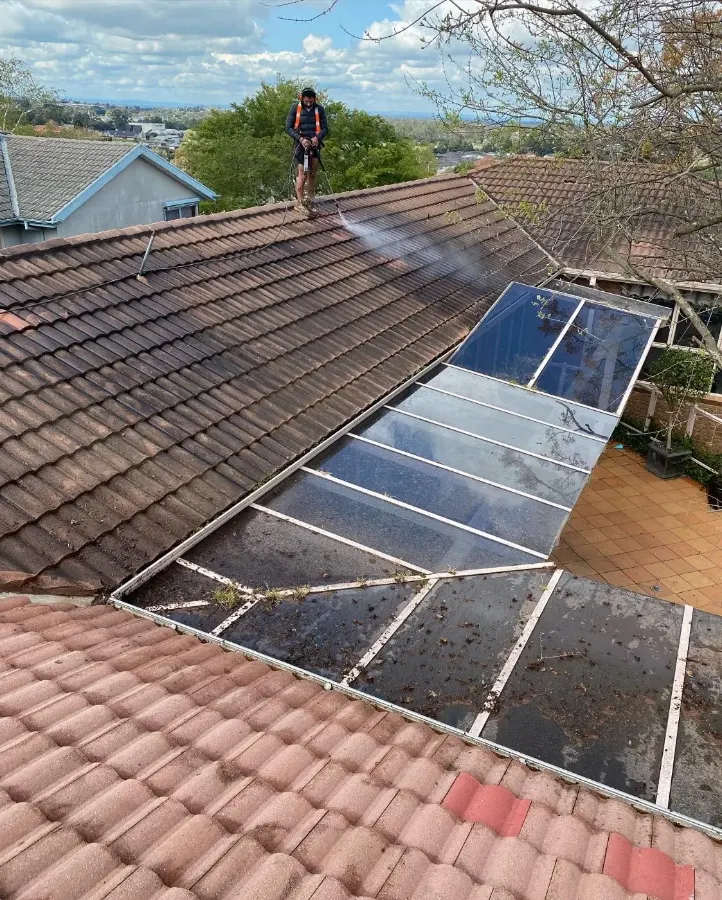
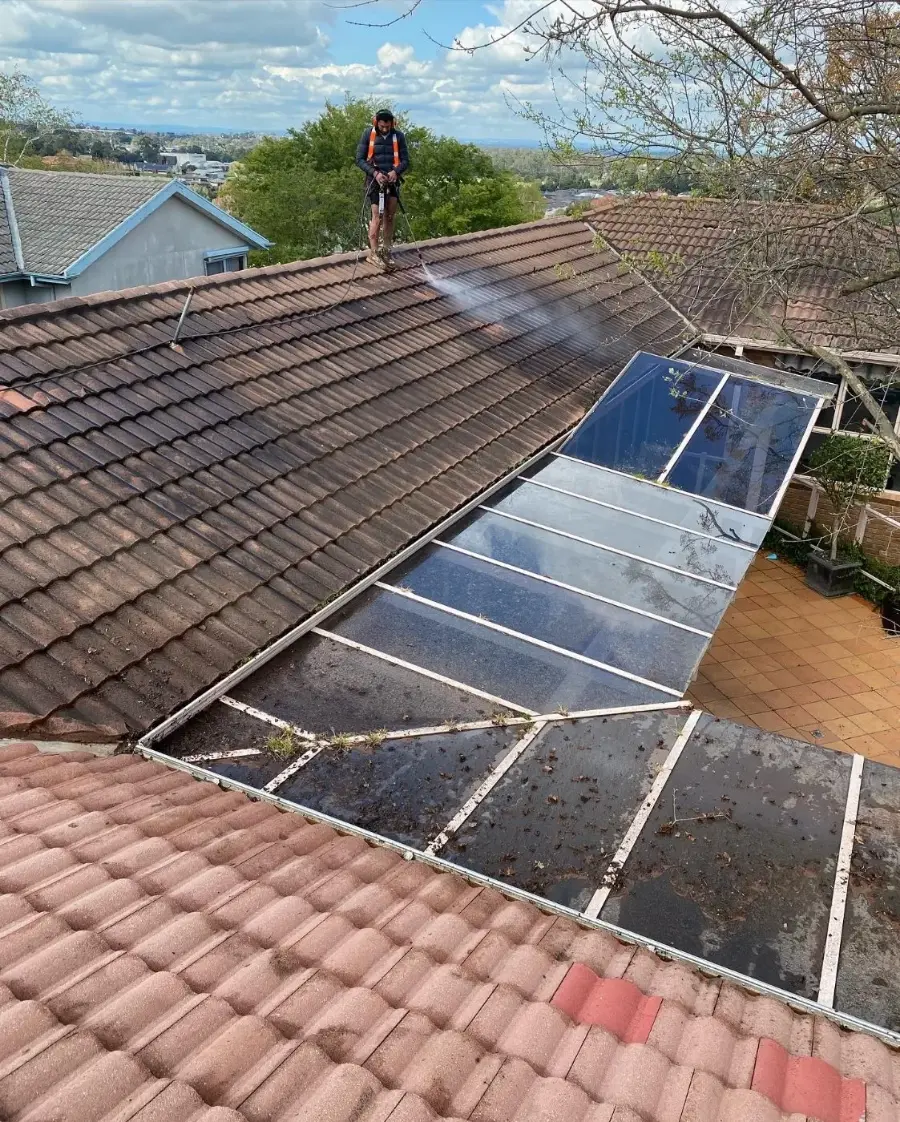
Bring six gallery images under the 250KB baseline by resizing
Yesterday's audit found these and left them, because clearing the budget on
quality alone drove three to q=0.54-0.60 and still left two over. Doing it by
width instead, with quality held at 0.80: 2090KB -> 1332KB, 36% off.

The largest CSS slot on these pages is 1152px, so 1200w is still >=1x and the
576px slots have plenty of headroom. Aspect ratios are preserved to within
0.0007 so there is no CLS change, and the width/height/srcSet descriptors in
each .tsx were updated to match the new intrinsic sizes.

gallery-roof-cleaning is the exception at q0.74 — it would not clear the budget
on width alone, and 1000w/q0.74 beats 1100w/q0.69 on a photo made of dense tile
texture. Opened and checked it at full size afterwards.

Two defects caught in review before pushing: the epoxy image landing at 900 wide
collided with its own -900 twin and left a srcSet with two 900w entries; and
deleting that twin as redundant would have broken the Vite build, because
Services.tsx and Gallery.tsx import it directly. Both fixed, both now covered by
sweeps.

Claude-Session: https://claude.ai/code/session_011QKFcVxWwYahKsiYaZbnjb

diff --git a/client/src/pages/BodyCorporatePainting.tsx b/client/src/pages/BodyCorporatePainting.tsx
@@ -118,10 +118,10 @@ export default function BodyCorporatePainting() {
         <div className="container">
           <img
             src="/gallery/gallery-commercial-heritage-white.webp"
-            srcSet="/gallery/gallery-commercial-heritage-white-900.webp 900w, /gallery/gallery-commercial-heritage-white.webp 1400w"
+            srcSet="/gallery/gallery-commercial-heritage-white-900.webp 900w, /gallery/gallery-commercial-heritage-white.webp 1200w"
             sizes="(max-width: 1024px) 100vw, 1152px"
-            width={1400}
-            height={1050}
+            width={1200}
+            height={900}
             alt="Heritage multi-storey building repainted white by Jetblack Painting for a Melbourne owners corporation"
             className="rounded-lg shadow-md w-full max-h-[520px] object-cover"
             loading="lazy"
@@ -129,10 +129,10 @@ export default function BodyCorporatePainting() {
           <div className="grid grid-cols-1 sm:grid-cols-3 gap-4 mt-4">
             <img
               src="/gallery/gallery-commercial-before-after.webp"
-              srcSet="/gallery/gallery-commercial-before-after-900.webp 900w, /gallery/gallery-commercial-before-after.webp 1400w"
+              srcSet="/gallery/gallery-commercial-before-after-900.webp 900w, /gallery/gallery-commercial-before-after.webp 1200w"
               sizes="(max-width: 1024px) 100vw, 1152px"
-              width={1400}
-              height={1400}
+              width={1200}
+              height={1200}
               alt="Before and after of a strata building façade repaint by Jetblack Painting"
               className="rounded-lg shadow-md w-full h-64 object-cover"
               loading="lazy"

diff --git a/public/services/body-corporate-painting/index.html b/public/services/body-corporate-painting/index.html
@@ -208,11 +208,11 @@
   <section>
     <h2>Body Corporate Painting work</h2>
     <figure>
-      <img src="/gallery/gallery-commercial-heritage-white.webp" srcset="/gallery/gallery-commercial-heritage-white-900.webp 900w, /gallery/gallery-commercial-heritage-white.webp 1400w" sizes="(max-width: 768px) 100vw, 50vw" width="1400" height="1050" alt="Heritage multi-storey building repainted white by Jetblack Painting for a Melbourne owners corporation" loading="lazy" decoding="async">
+      <img src="/gallery/gallery-commercial-heritage-white.webp" srcset="/gallery/gallery-commercial-heritage-white-900.webp 900w, /gallery/gallery-commercial-heritage-white.webp 1200w" sizes="(max-width: 768px) 100vw, 50vw" width="1200" height="900" alt="Heritage multi-storey building repainted white by Jetblack Painting for a Melbourne owners corporation" loading="lazy" decoding="async">
 
     </figure>
     <figure>
-      <img src="/gallery/gallery-commercial-before-after.webp" srcset="/gallery/gallery-commercial-before-after-900.webp 900w, /gallery/gallery-commercial-before-after.webp 1400w" sizes="(max-width: 768px) 100vw, 50vw" width="1400" height="1400" alt="Before and after of a strata building façade repaint by Jetblack Painting" loading="lazy" decoding="async">
+      <img src="/gallery/gallery-commercial-before-after.webp" srcset="/gallery/gallery-commercial-before-after-900.webp 900w, /gallery/gallery-commercial-before-after.webp 1200w" sizes="(max-width: 768px) 100vw, 50vw" width="1200" height="1200" alt="Before and after of a strata building façade repaint by Jetblack Painting" loading="lazy" decoding="async">
 
     </figure>
     <figure>

diff --git a/public/services/roof-painting/index.html b/public/services/roof-painting/index.html
@@ -217,11 +217,11 @@
 
     </figure>
     <figure>
-      <img src="/gallery/gallery-roof-cleaning.webp" srcset="/gallery/gallery-roof-cleaning-900.webp 900w, /gallery/gallery-roof-cleaning.webp 1123w" sizes="(max-width: 768px) 100vw, 50vw" width="1123" height="1400" alt="High-pressure roof cleaning and preparation by Jetblack Painting" loading="lazy" decoding="async">
+      <img src="/gallery/gallery-roof-cleaning.webp" srcset="/gallery/gallery-roof-cleaning-900.webp 900w, /gallery/gallery-roof-cleaning.webp 1000w" sizes="(max-width: 768px) 100vw, 50vw" width="1000" height="1247" alt="High-pressure roof cleaning and preparation by Jetblack Painting" loading="lazy" decoding="async">
 
     </figure>
     <figure>
-      <img src="/gallery/gallery-roof-victorian-restoration.webp" srcset="/gallery/gallery-roof-victorian-restoration-900.webp 900w, /gallery/gallery-roof-victorian-restoration.webp 1050w" sizes="(max-width: 768px) 100vw, 50vw" width="1050" height="1400" alt="Roof restoration in progress on a weatherboard home, with a Jetblack Painting painter working from the ridge" loading="lazy" decoding="async">
+      <img src="/gallery/gallery-roof-victorian-restoration.webp" srcset="/gallery/gallery-roof-victorian-restoration-900.webp 900w, /gallery/gallery-roof-victorian-restoration.webp 1000w" sizes="(max-width: 768px) 100vw, 50vw" width="1000" height="1333" alt="Roof restoration in progress on a weatherboard home, with a Jetblack Painting painter working from the ridge" loading="lazy" decoding="async">
 
     </figure>
   </section>

diff --git a/client/src/pages/RoofPainting.tsx b/client/src/pages/RoofPainting.tsx
@@ -123,20 +123,20 @@ export default function RoofPainting() {
             />
             <img
               src="/gallery/gallery-roof-cleaning.webp"
-              srcSet="/gallery/gallery-roof-cleaning-900.webp 900w, /gallery/gallery-roof-cleaning.webp 1123w"
+              srcSet="/gallery/gallery-roof-cleaning-900.webp 900w, /gallery/gallery-roof-cleaning.webp 1000w"
               sizes="(max-width: 1024px) 100vw, 1152px"
-              width={1123}
-              height={1400}
+              width={1000}
+              height={1247}
               alt="High-pressure roof cleaning and preparation by Jetblack Painting"
               className="rounded-lg shadow-md w-full h-56 object-cover"
               loading="lazy"
             />
             <img
               src="/gallery/gallery-roof-victorian-restoration.webp"
-              srcSet="/gallery/gallery-roof-victorian-restoration-900.webp 900w, /gallery/gallery-roof-victorian-restoration.webp 1050w"
+              srcSet="/gallery/gallery-roof-victorian-restoration-900.webp 900w, /gallery/gallery-roof-victorian-restoration.webp 1000w"
               sizes="(max-width: 1024px) 100vw, 1152px"
-              width={1050}
-              height={1400}
+              width={1000}
+              height={1333}
               alt="Roof restoration in progress on a weatherboard home, with a Jetblack Painting painter working from the ridge"
               className="rounded-lg shadow-md w-full h-56 object-cover"
               loading="lazy"

diff --git a/client/src/pages/CommercialPainting.tsx b/client/src/pages/CommercialPainting.tsx
@@ -147,10 +147,10 @@ export default function CommercialPainting() {
           <div className="grid grid-cols-1 sm:grid-cols-3 gap-4 mt-4">
             <img
               src="/gallery/gallery-commercial-before-after.webp"
-              srcSet="/gallery/gallery-commercial-before-after-900.webp 900w, /gallery/gallery-commercial-before-after.webp 1400w"
+              srcSet="/gallery/gallery-commercial-before-after-900.webp 900w, /gallery/gallery-commercial-before-after.webp 1200w"
               sizes="(max-width: 1024px) 100vw, 1152px"
-              width={1400}
-              height={1400}
+              width={1200}
+              height={1200}
               alt="Before and after of a commercial building repaint by Jetblack Painting"
               className="rounded-lg shadow-md w-full h-64 object-cover"
               loading="lazy"

diff --git a/client/src/pages/RoofFencePainting.tsx b/client/src/pages/RoofFencePainting.tsx
@@ -134,10 +134,10 @@ export default function RoofFencePainting() {
             <figure className="relative m-0">
               <img
                 src="/gallery/gallery-fence-picket-before.webp"
-                srcSet="/gallery/gallery-fence-picket-before-900.webp 900w, /gallery/gallery-fence-picket-before.webp 1200w"
+                srcSet="/gallery/gallery-fence-picket-before-900.webp 900w, /gallery/gallery-fence-picket-before.webp 1150w"
                 sizes="(max-width: 640px) 100vw, 50vw"
-                width={1200}
-                height={900}
+                width={1150}
+                height={863}
                 alt="Bare timber picket fence masked up and prepared before painting by Jetblack Painting"
                 className="rounded-lg shadow-md w-full h-72 sm:h-96 object-cover"
                 loading="lazy"

diff --git a/public/services/epoxy-flooring/index.html b/public/services/epoxy-flooring/index.html
@@ -216,7 +216,7 @@
       <figcaption>Before — original condition</figcaption>
     </figure>
     <figure>
-      <img src="/gallery/gallery-commercial-epoxy-floor.webp" srcset="/gallery/gallery-commercial-epoxy-floor-900.webp 900w, /gallery/gallery-commercial-epoxy-floor.webp 1120w" sizes="(max-width: 768px) 100vw, 50vw" width="1120" height="1400" alt="Grey and black decorative epoxy flake floor finished by Jetblack Painting in the same Melbourne warehouse" loading="lazy" decoding="async">
+      <img src="/gallery/gallery-commercial-epoxy-floor.webp" width="900" height="1125" alt="Grey and black decorative epoxy flake floor finished by Jetblack Painting in the same Melbourne warehouse" loading="lazy" decoding="async">
 
       <figcaption>After — walls, beams and epoxy flake floor</figcaption>
     </figure>

diff --git a/public/services/roof-fence-painting/index.html b/public/services/roof-fence-painting/index.html
@@ -223,7 +223,7 @@
 
     </figure>
     <figure>
-      <img src="/gallery/gallery-fence-picket-before.webp" srcset="/gallery/gallery-fence-picket-before-900.webp 900w, /gallery/gallery-fence-picket-before.webp 1200w" sizes="(max-width: 768px) 100vw, 50vw" width="1200" height="900" alt="Bare timber picket fence masked up and prepared before painting by Jetblack Painting" loading="lazy" decoding="async">
+      <img src="/gallery/gallery-fence-picket-before.webp" srcset="/gallery/gallery-fence-picket-before-900.webp 900w, /gallery/gallery-fence-picket-before.webp 1150w" sizes="(max-width: 768px) 100vw, 50vw" width="1150" height="863" alt="Bare timber picket fence masked up and prepared before painting by Jetblack Painting" loading="lazy" decoding="async">
 
       <figcaption>Before</figcaption>
     </figure>

diff --git a/public/services/commercial-painting/index.html b/public/services/commercial-painting/index.html
@@ -214,7 +214,7 @@
 
     </figure>
     <figure>
-      <img src="/gallery/gallery-commercial-before-after.webp" srcset="/gallery/gallery-commercial-before-after-900.webp 900w, /gallery/gallery-commercial-before-after.webp 1400w" sizes="(max-width: 768px) 100vw, 50vw" width="1400" height="1400" alt="Before and after of a commercial building repaint by Jetblack Painting" loading="lazy" decoding="async">
+      <img src="/gallery/gallery-commercial-before-after.webp" srcset="/gallery/gallery-commercial-before-after-900.webp 900w, /gallery/gallery-commercial-before-after.webp 1200w" sizes="(max-width: 768px) 100vw, 50vw" width="1200" height="1200" alt="Before and after of a commercial building repaint by Jetblack Painting" loading="lazy" decoding="async">
 
     </figure>
     <figure>

diff --git a/client/src/pages/EpoxyFlooring.tsx b/client/src/pages/EpoxyFlooring.tsx
@@ -148,10 +148,8 @@ export default function EpoxyFlooring() {
             <figure className="m-0">
               <img
                 src="/gallery/gallery-commercial-epoxy-floor.webp"
-                srcSet="/gallery/gallery-commercial-epoxy-floor-900.webp 900w, /gallery/gallery-commercial-epoxy-floor.webp 1120w"
-                sizes="(max-width: 768px) 100vw, 576px"
-                width={1120}
-                height={1400}
+                width={900}
+                height={1125}
                 alt="Grey and black decorative epoxy flake floor finished by Jetblack Painting in the same Melbourne warehouse"
                 className="rounded-lg shadow-md w-full h-72 object-cover"
                 loading="lazy"

diff --git a/SEO-LOG.md b/SEO-LOG.md
@@ -5294,3 +5294,68 @@ morning. Left for a run of its own rather than bolted onto a metadata fix.
 No ranking claim is made. GSC Wizard and Supermetrics were not queried — the run
 found a real defect at Step 3 and the brief says fix it and stop. **"Not
 measured" is not "nothing moved."**
+
+## 2026-09-08 (evening) — Daily audit: the six oversized images, fixed the right way
+
+Yesterday's run found six gallery images over the 250KB baseline and deliberately
+left them, because clearing the budget by dropping WebP quality drove three of
+them to q=0.54–0.60 and still left two over. This run does it by **width**, with
+quality held at 0.80.
+
+| File | Before | After | Change |
+| --- | --- | --- | --- |
+| `gallery-roof-cleaning` | 456KB @ 1123w | **239KB @ 1000w** | q0.74 — see below |
+| `gallery-commercial-epoxy-floor` | 427KB @ 1120w | **244KB @ 900w** | q0.80 |
+| `gallery-commercial-before-after` | 351KB @ 1400w | **219KB @ 1200w** | q0.80 |
+| `gallery-commercial-heritage-white` | 328KB @ 1400w | **200KB @ 1200w** | q0.80 |
+| `gallery-fence-picket-before` | 266KB @ 1200w | **241KB @ 1150w** | q0.80 |
+| `gallery-roof-victorian-restoration` | 259KB @ 1050w | **187KB @ 1000w** | q0.80 |
+
+**2090KB → 1332KB, 36% off, 757KB saved**, all on live service pages.
+
+The largest CSS slot on any of these pages is 1152px, so 1200w is still ≥1x
+there and the 576px slots have far more headroom. **Aspect ratios preserved to
+within 0.0007**, so no CLS change — and `width`/`height`/srcSet descriptors in
+the `.tsx` were updated to match the new intrinsic sizes, since the static
+generator reads those from source.
+
+`gallery-roof-cleaning` was the one exception: it would not clear 250KB on width
+alone (900w @ q0.80 was still over). Took 1000w @ **q0.74** rather than 1100w @
+~q0.69 — an 11% resolution drop is imperceptible where 0.69 starts showing
+artefacts in exactly the dense tile-and-spray texture this photo is made of.
+Both it and the fence photo were opened and eyeballed at full size afterwards:
+no visible degradation.
+
+### ⚠ Two defects I introduced and caught before pushing
+
+1. **`900w, 900w`.** Once the epoxy image came down to 900 wide it collided with
+   its own `-900` twin, leaving a srcSet with two identical width descriptors —
+   not a responsive image, just a duplicate. Removed the srcSet/sizes pair on
+   that one `<img>`; a single 900w file already covers its 576px slot at 1.56x.
+   Added a sweep that flags duplicate width descriptors in any srcSet.
+2. **A near build-break.** Having removed that srcSet I deleted the `-900` twin
+   as redundant — but `Services.tsx` and `Gallery.tsx` **import it directly from
+   `@/assets/images/`**, independently of the epoxy page. Vite would have failed
+   to resolve the import and the deploy would have broken. Restored it.
+   ⚠ **A file being unreferenced by the layer you are working in does not mean
+   it is unreferenced.** Now checked by a sweep asserting every
+   `@/assets/images/*` import resolves (34/34) and every `/gallery/` URL in the
+   static layer exists (52/52).
+
+⚠ **And a bad check.** My first orphan grep printed `(empty = clean)`
+unconditionally after the grep, so it announced "clean" on the very output that
+listed the two importing files. Same class as yesterday's zero-matching regex:
+**a check whose pass message does not depend on its own result is not a check.**
+
+### Clean, no change needed
+
+Build serving with the #271 titles live, TTFB 0.58s `cf-cache HIT`, lockfile
+77/77, three layers regenerate with zero diffs, metadata clean (yesterday's fix
+held), 123 FAQPage blocks / 551 questions / 0 problems, 0 JSON-LD parse errors,
+0 aggregateRating in static pages, og:image single URL 200.
+
+### Not measured
+
+No ranking claim. GSC Wizard and Supermetrics were not queried — Step 5 found a
+real defect and the brief says fix it and stop. **"Not measured" is not "nothing
+moved."**
